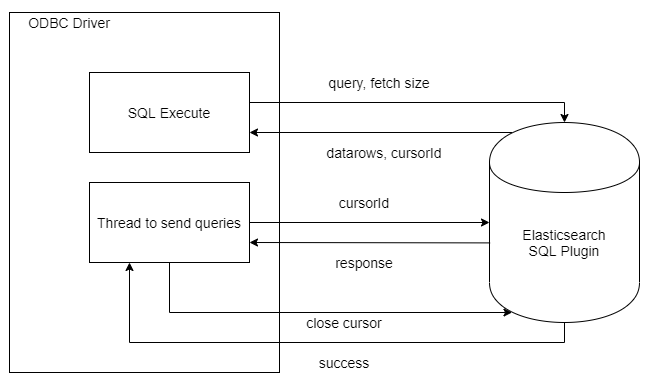
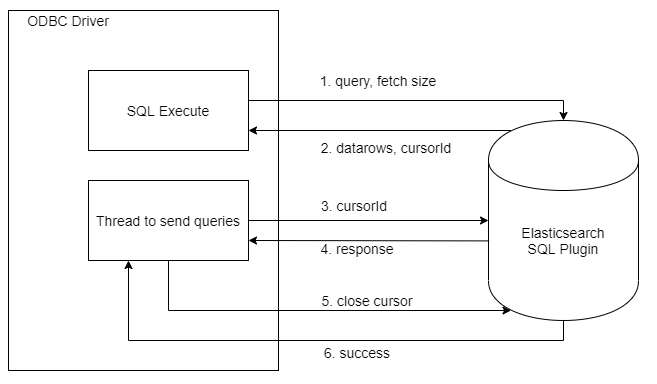
update data flow img

diff --git a/docs/dev/Pagination.md b/docs/dev/Pagination.md
@@ -10,6 +10,8 @@ For information on how the pagination is supported on Elasticsearch server, chec
 <img src="img/data_flow.png" width="60%">
 </p>
 
+* Steps 3 & 4 will repeatedly get datarows until entire result is retrieved.
+* Step 5 will send a request to close cursor whenever the connection is closed.
 * ODBC Driver will provide an option to define fetch size as a connection parameter.
 * If fetch size is not given or zero then the number of rows per request will be as per server-defined [default fetch size](https://github.com/opendistro-for-elasticsearch/sql/blob/master/docs/dev/Pagination.md#42-salient-points).
 * ODBC Driver will send the request to close cursor whenever the connection is closed.
